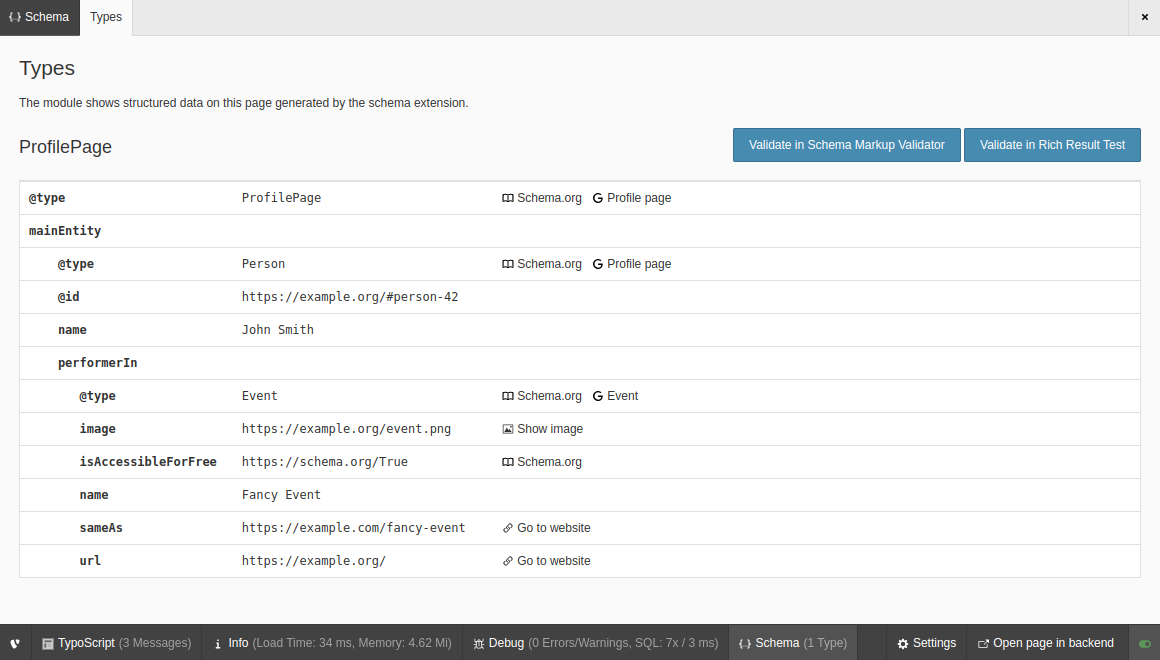
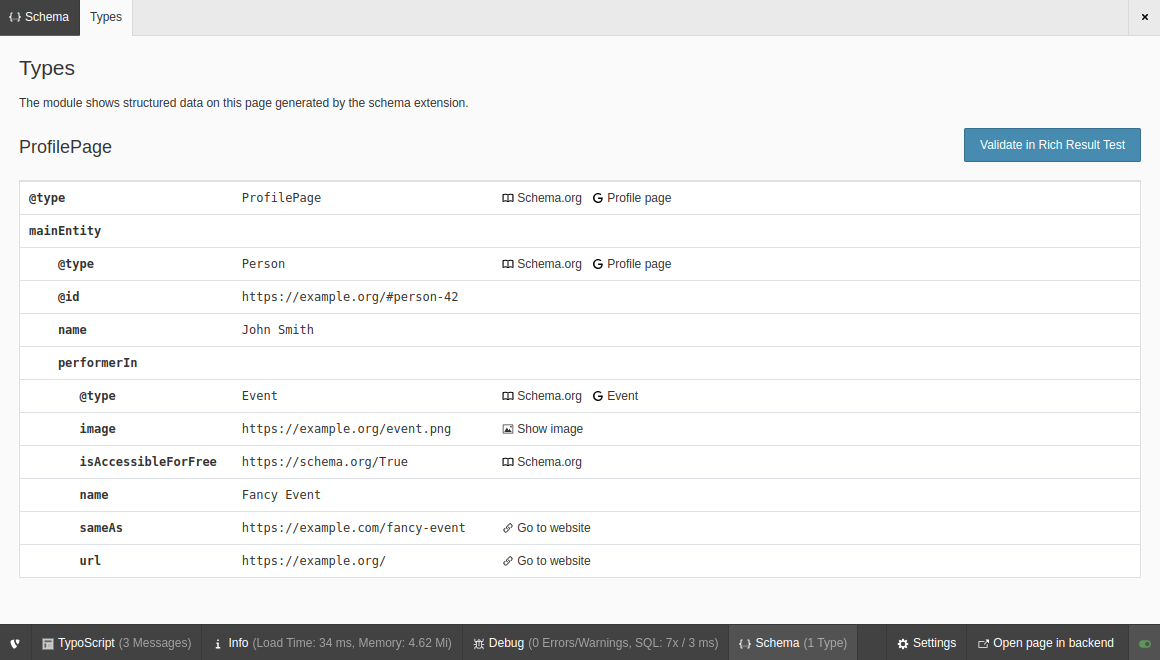
chore!: remove validation via Schema Markup Validator in Admin Panel
related: #144

Changed region(s): [[0.6207, 0.1818, 0.8379, 0.2424]]

diff --git a/Resources/Public/JavaScript/AdminPanel/Validate.js b/Resources/Public/JavaScript/AdminPanel/Validate.js
@@ -7,10 +7,6 @@
           checkButtonId: 'ext-schema-check-rtt',
           actionUrl: 'https://search.google.com/test/rich-results'
         },
-        smv: {
-          checkButtonId: 'ext-schema-check-smv',
-          actionUrl: 'https://validator.schema.org/'
-        }
       },
     };
 
@@ -37,9 +33,6 @@
 
       const rttButton = document.getElementById(this.options.tools.rtt.checkButtonId);
       rttButton && rttButton.addEventListener('click', this.invokeRichResultTest.bind(this));
-
-      const smvButton = document.getElementById(this.options.tools.smv.checkButtonId);
-      smvButton && smvButton.addEventListener('click', this.invokeSchemaMarkupValidator.bind(this));
     }
 
     invokeRichResultTest(event) {
@@ -47,16 +40,9 @@
       this.submitForm('rtt', this.options.tools.rtt.actionUrl, 'code_snippet');
     }
 
-    invokeSchemaMarkupValidator(event) {
-      event.preventDefault();
-      this.submitForm('smv', this.options.tools.smv.actionUrl, 'code');
-    }
-
     submitForm(type, actionUrl, codeFieldName) {
       let code = JSON.stringify(this.jsonLd, null, '\t');
-      if (type === 'rtt') {
-        code = '<script type="application/ld+json">\n' + code + '\n</script>';
-      }
+      code = '<script type="application/ld+json">\n' + code + '\n</script>';
 
       const form = document.createElement('form');
       form.setAttribute('method', 'post');

diff --git a/Resources/Private/Templates/AdminPanel/TypesInformation.html b/Resources/Private/Templates/AdminPanel/TypesInformation.html
@@ -12,9 +12,6 @@
 <f:if condition="{types}">
     <f:then>
         <div class="typo3-adminPanel-form-group" style="float:right">
-            <button id="ext-schema-check-smv" class="typo3-adminPanel-btn typo3-adminPanel-btn-primary">
-                {f:translate(key: 'LLL:EXT:schema/Resources/Private/Language/locallang.xlf:adminPanel.validateInSchemaMarkupValidator')}
-            </button>
             <button id="ext-schema-check-rtt" class="typo3-adminPanel-btn typo3-adminPanel-btn-primary">
                 {f:translate(key: 'LLL:EXT:schema/Resources/Private/Language/locallang.xlf:adminPanel.validateInRichResultTest')}
             </button>

diff --git a/Documentation/AdminPanel/Index.rst b/Documentation/AdminPanel/Index.rst
@@ -20,12 +20,10 @@ There are links available: The type to the according Schema.org documentation
 and - if available - to the Google and Yandex references for the specific type,
 other URLs to their destination.
 
-Additionally, you can call the `Schema Markup Validator`_ and
-`Google's Rich Result Test`_ to validate the structured data on the specific
-page.
+Additionally, you can call `Google's Rich Result Test`_ to validate the
+structured data on the specific page.
 
 .. _Google's Rich Result Test: https://search.google.com/test/rich-results
-.. _Schema Markup Validator: https://validator.schema.org/
 
 .. hint::
    Since the JSON-LD markup is fetched from the page cache, please make sure
